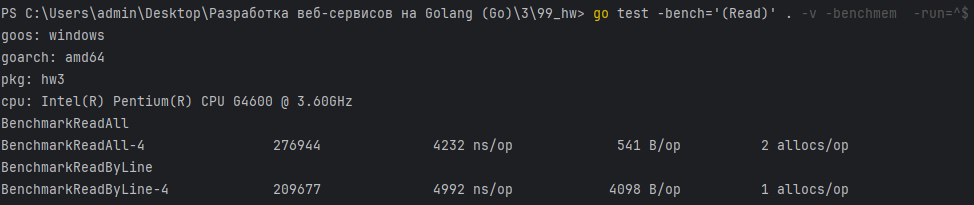
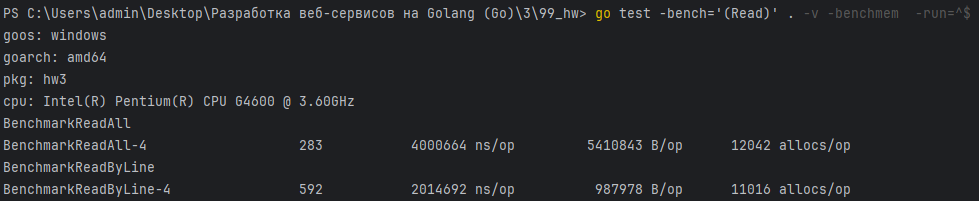
fixed benchmarks ReadAll vs ReadByLine

diff --git a/3/99_hw/main_test.go b/3/99_hw/main_test.go
@@ -100,11 +100,11 @@ func BenchmarkEasyjsonUnmarshal(b *testing.B) {
 }
 
 func BenchmarkReadAll(b *testing.B) {
-	file, err := os.Open(filePath)
-	if err != nil {
-		panic(err)
-	}
 	for i := 0; i < b.N; i++ {
+		file, err := os.Open(filePath)
+		if err != nil {
+			panic(err)
+		}
 		fileContents, err := ioutil.ReadAll(file)
 		if err != nil {
 			panic(err)
@@ -112,21 +112,36 @@ func BenchmarkReadAll(b *testing.B) {
 
 		lines := strings.Split(string(fileContents), "\n")
 
-		for range lines {
+		users := make([]user.User, 0)
+		for _, line := range lines {
+			var u user.User
+			// fmt.Printf("%v %v\n", err, line)
+			err := easyjson.Unmarshal([]byte(line), &u)
+			if err != nil {
+				panic(err)
+			}
+			users = append(users, u)
 		}
 	}
 }
 
 func BenchmarkReadByLine(b *testing.B) {
-	file, err := os.Open(filePath)
-	if err != nil {
-		panic(err)
-	}
 	for i := 0; i < b.N; i++ {
+		file, err := os.Open(filePath)
+		if err != nil {
+			panic(err)
+		}
 		scanner := bufio.NewScanner(file)
 
+		users := make([]user.User, 0)
 		for scanner.Scan() {
-			_ = scanner.Text()
+			var u user.User
+			// fmt.Printf("%v %v\n", err, line)
+			err := easyjson.Unmarshal(scanner.Bytes(), &u)
+			if err != nil {
+				panic(err)
+			}
+			users = append(users, u)
 		}
 		if err := scanner.Err(); err != nil {
 			panic(err)

diff --git a/3/99_hw/optimization_report.md b/3/99_hw/optimization_report.md
@@ -87,6 +87,8 @@ go tool pprof -http=:8080 .\hw3.test.exe .\mem.out
 
 ![img_16.png](img_16.png)
 
-4. Вместо того чтобы целиком читать файл с помощью `ioutil.ReadAll`, можно попробовать читать его построчно и сразу обрабатывать. Таким образом не будет необходимости постоянно держать в памяти огромное количество данных. Но бенчмарк так не думает:
+4. Вместо того чтобы целиком читать файл с помощью `ioutil.ReadAll`, можно попробовать читать его построчно и сразу обрабатывать. Таким образом не будет необходимости постоянно держать в памяти огромное количество данных. Плюс нам в действительности не нужно иметь массив строк - нам нужен массив массивов байт для десериализации пользователя.
 
 ![img_17.png](img_17.png)
+
+Бенчмарк показывает, что это вдвое быстрее, и требует в 5 раз меньше памяти на операцию.
